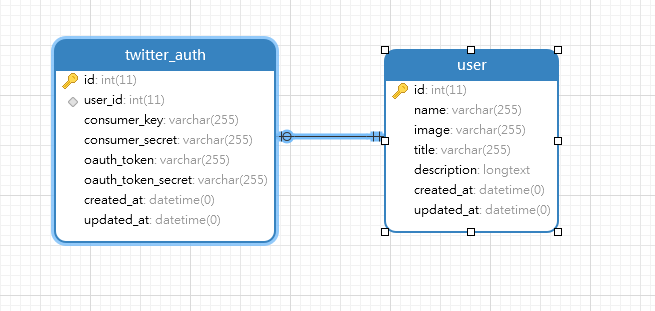
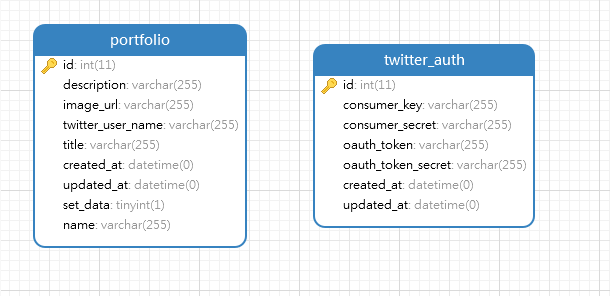
implements request twitter by twittername

diff --git a/src/Services/UpdaterPortfolioService.php b/src/Services/UpdaterPortfolioService.php
@@ -3,7 +3,9 @@ declare(strict_types=1);
 
 namespace App\Services;
 
+use App\Entity\Portfolio;
 use App\Form\PortfolioType;
+use App\Repository\PortfolioRepository;
 use Doctrine\ORM\EntityManagerInterface;
 use Symfony\Component\Form\FormFactoryInterface;
 use Symfony\Component\HttpFoundation\Request;
@@ -23,27 +25,41 @@ class UpdaterPortfolioService
      * @var EntityManagerInterface
      */
     private $entityManager;
+    /**
+     * @var PortfolioRepository
+     */
+    private $portfolioRepository;
 
     /**
      * UpdaterUserService constructor.
      * @param FormFactoryInterface $formFactory
      * @param EntityManagerInterface $entityManager
+     * @param PortfolioRepository $portfolioRepository
      */
-    public function __construct(FormFactoryInterface $formFactory, EntityManagerInterface $entityManager)
+    public function __construct(
+        FormFactoryInterface $formFactory,
+        EntityManagerInterface $entityManager,
+        PortfolioRepository $portfolioRepository
+    )
     {
         $this->formFactory = $formFactory;
         $this->entityManager = $entityManager;
+        $this->portfolioRepository = $portfolioRepository;
     }
 
     /**
-     * @param Portfolio $portfolio
+     * @param string $twitterName
      * @param Request $request
-     * @return bool
+     * @return Portfolio
      * @throws \Exception
      */
-    public function update(Portfolio $portfolio, Request $request): bool
+    public function update(string $twitterName, Request $request): Portfolio
     {
         try {
+            $portfolio = $this->portfolioRepository->findOneBy(['twitterUserName' => $twitterName]);
+            if (is_null($portfolio)) {
+                throw new \Exception('Portfolio no found', 404);
+            }
             $form = $this->formFactory->create(PortfolioType::class, $portfolio);
             $form->handleRequest($request);
 
@@ -54,7 +70,7 @@ class UpdaterPortfolioService
         } catch (\Exception $exception) {
             throw new \Exception($exception->getMessage(), 500);
         }
-        return true;
+        return $portfolio;
     }
 
 }

diff --git a/src/Services/GetterPortfolioService.php b/src/Services/GetterPortfolioService.php
@@ -65,13 +65,17 @@ class GetterPortfolioService
     {
         $portfolio = $this->portfolioRepository->findOneBy(['twitterUserName' => $twitterName]);
         if (is_null($portfolio)) {
-            throw new \Exception('Portfolio no found', 404);
+            $portfolio = $this->newPortfolio($twitterName);
         }
 
         // Has information about that profile
         if (!$portfolio->getSetData()) {
             $tweet = $this->twitterApi->getTweets($portfolio->getTwitterUserName(), 1);
-            $this->setDataProfile($portfolio, $tweet);
+            if (count($tweet) != 0) {
+                $this->setDataProfile($portfolio, $tweet);
+            } else {
+                throw new \Exception('Tweets no found', 404);
+            }
         }
 
         $form = $this->formFactory->create(PortfolioType::class, $portfolio);
@@ -82,7 +86,11 @@ class GetterPortfolioService
         ]);
     }
 
-    public function setDataProfile(Portfolio $portfolio, array $tweet)
+    /**
+     * @param Portfolio $portfolio
+     * @param array $tweet
+     */
+    public function setDataProfile(Portfolio $portfolio, array $tweet): void
     {
         $infoTweet = current($tweet);
 
@@ -94,6 +102,20 @@ class GetterPortfolioService
 
         $this->entityManager->persist($portfolio);
         $this->entityManager->flush();
+    }
+
+    /**
+     * @param string $twitterUserName
+     * @return Portfolio
+     */
+    public function newPortfolio(string $twitterUserName): Portfolio
+    {
+        $newPortfolio = new Portfolio();
+        $newPortfolio->setTwitterUserName($twitterUserName);
+        $this->entityManager->persist($newPortfolio);
+        $this->entityManager->flush();
+
+        return $newPortfolio;
     }
 
     /**

diff --git a/src/Controller/Api/PortfolioController.php b/src/Controller/Api/PortfolioController.php
@@ -3,8 +3,6 @@ declare(strict_types=1);
 
 namespace App\Controller\Api;
 
-use App\Entity\Portfolio;
-use App\Form\PortfolioType;
 use App\Services\GetterPortfolioService;
 use App\Services\UpdaterPortfolioService;
 use Symfony\Bundle\FrameworkBundle\Controller\AbstractController;
@@ -36,17 +34,17 @@ class PortfolioController extends AbstractController
     }
 
     /**
-     * @Route("/update/{id}", name="update_portfolio", methods={"POST"})
+     * @Route("/update/{twitterName}", name="update_portfolio", methods={"POST"})
      * @param Request $request
-     * @param Portfolio $portfolio
+     * @param string $twitterName
      * @param UpdaterPortfolioService $updaterPortfolio
      * @return Response
      */
-    public function update(Request $request, Portfolio $portfolio, UpdaterPortfolioService $updaterPortfolio): Response
+    public function update(Request $request, string $twitterName, UpdaterPortfolioService $updaterPortfolio): Response
     {
         try {
-            if ($updaterPortfolio->update($portfolio, $request)) {
-                return $this->redirectToRoute('get_profile', ['id' => $portfolio->getTwitterUserName()]);
+            if ($portfolio = $updaterPortfolio->update($twitterName, $request)) {
+                return $this->redirectToRoute('get_profile', ['twitterName' => $portfolio->getTwitterUserName()]);
             }
         } catch (\Exception $exception) {
             return new JsonResponse(['error' => $exception->getMessage()], $exception->getCode());

diff --git a/src/Entity/Portfolio.php b/src/Entity/Portfolio.php
@@ -52,7 +52,7 @@ class Portfolio
     /**
      * @ORM\Column(type="boolean")
      */
-    private $setData;
+    private $setData = false;
 
     /**
      * @ORM\Column(type="string", length=255, nullable=true)
@@ -123,7 +123,17 @@ class Portfolio
      */
     public function setImageUrl(?string $imageUrl): self
     {
-        $this->imageUrl = $imageUrl;
+        if (strstr($imageUrl, 'http')) {
+            $this->imageUrl = $imageUrl;
+        } else {
+            if (isset($_SERVER['HTTPS']) && $_SERVER['HTTPS'] === 'on') {
+                $link = "https://";
+            } else {
+                $link = "http://";
+            }
+            $link .= $_SERVER['HTTP_HOST'] . '/images/avatars/';
+            $this->imageUrl = $link . $imageUrl;
+        }
 
         return $this;
     }

diff --git a/tests/TestShowUserTest.php b/tests/TestShowUserTest.php
@@ -16,7 +16,7 @@ class TestShowUserTest extends WebTestCase
     public function testResponseOk()
     {
         $client = static::createClient();
-        $client->request('GET', '/api/user/profile/1');
+        $client->request('GET', '/api/portfolio/profile/Daenerys');
 
         $this->assertEquals(200, $client->getResponse()->getStatusCode());
     }

diff --git a/tests/TwitterApiTest.php b/tests/TwitterApiTest.php
@@ -14,7 +14,7 @@ class TwitterApiTest extends WebTestCase
     public function testResponseOk()
     {
         $client = static::createClient();
-        $client->request('GET', '/api/twitter/tweets/1');
+        $client->request('GET', '/api/twitter/tweets/Daenerys');
 
         $this->assertEquals(200, $client->getResponse()->getStatusCode());
     }

diff --git a/src/Services/FillDataBaseService.php b/src/Services/FillDataBaseService.php
@@ -32,7 +32,6 @@ class FillDataBaseService
         foreach ($this->twittersNames as $twitterName) {
             $newPortfolio = new Portfolio();
             $newPortfolio->setTwitterUserName($twitterName);
-            $newPortfolio->setSetData(false);
             $this->entityManager->persist($newPortfolio);
         }
 

diff --git a/README.md b/README.md
@@ -24,3 +24,13 @@
 - Compile assets, running `yarn install && yarn encore dev` or app set config prod `yarn install && yarn encore production`
 
 I finished the test around 16 Hours.
+
+#### Get data anything profile
+The route for access is `/api/portfolio/profile/twitterName` for example `/api/portfolio/profile/rslj_25`
+
+#### Examples initial data
+- `/api/portfolio/profile/GoT_Tyrion`
+- `/api/portfolio/profile/Daenerys`
+- `/api/portfolio/profile/LordSnow`
+- `/api/portfolio/profile/Lady_Sansa`
+- `/api/portfolio/profile/GameOfThrones`
